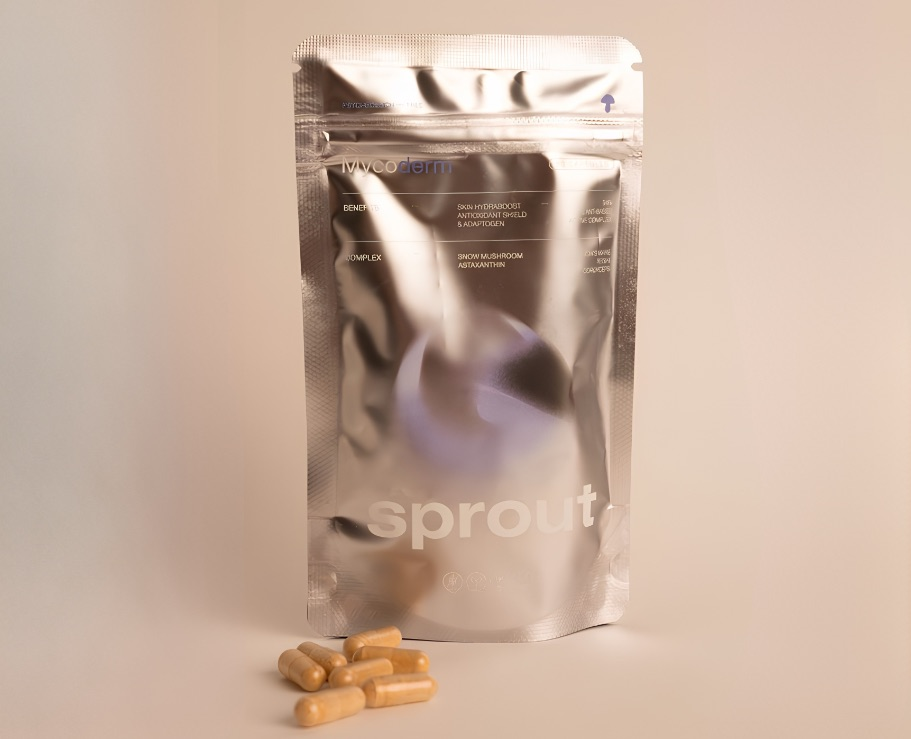
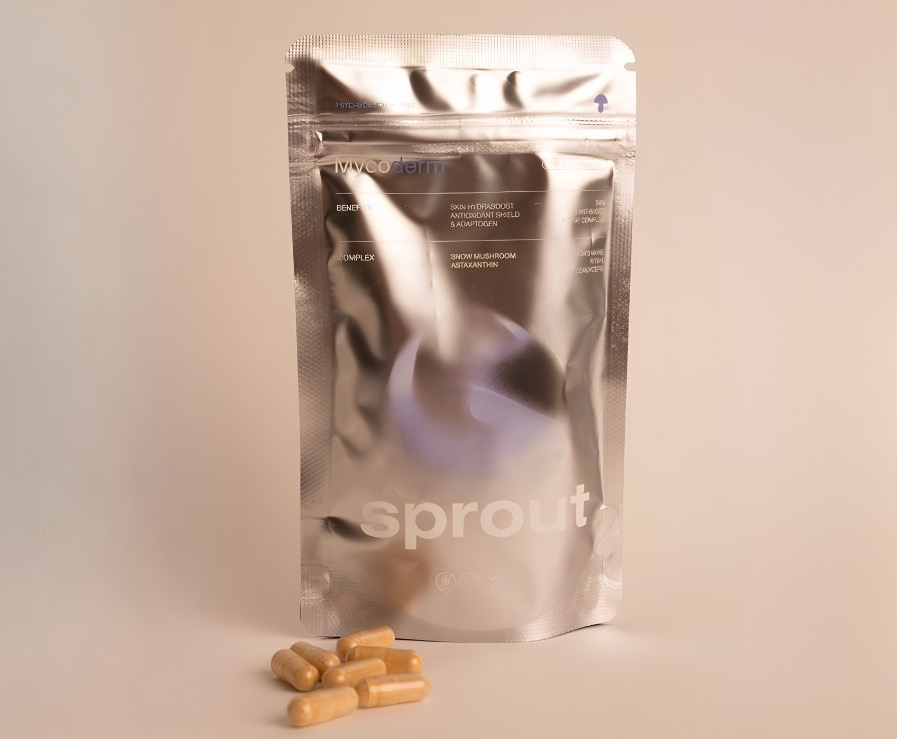
style: match Mycoderm image size to Mycofuel
Center-crop mycoderm.jpg from 911×739 to 897×739 so both match cards
share the exact same aspect ratio and render at identical height,
flush with each other in the two-up grid.

diff --git a/src/app/results/page.tsx b/src/app/results/page.tsx
@@ -64,7 +64,7 @@ const SPROUTLAB_PRODUCTS = [
     name: "Mycoderm",
     tagline: "Skin health, cellular protection & glow",
     image: "/mycoderm.jpg",
-    imageWidth: 911,
+    imageWidth: 897,
     imageHeight: 739,
     url: "https://sproutlab.it/shop/mycoderm/",
     matchSlugs: ["tremella", "cordyceps", "reishi", "lions-mane", "astaxanthin", "magnesium", "zinc", "vitamin-b6", "turmeric"],
